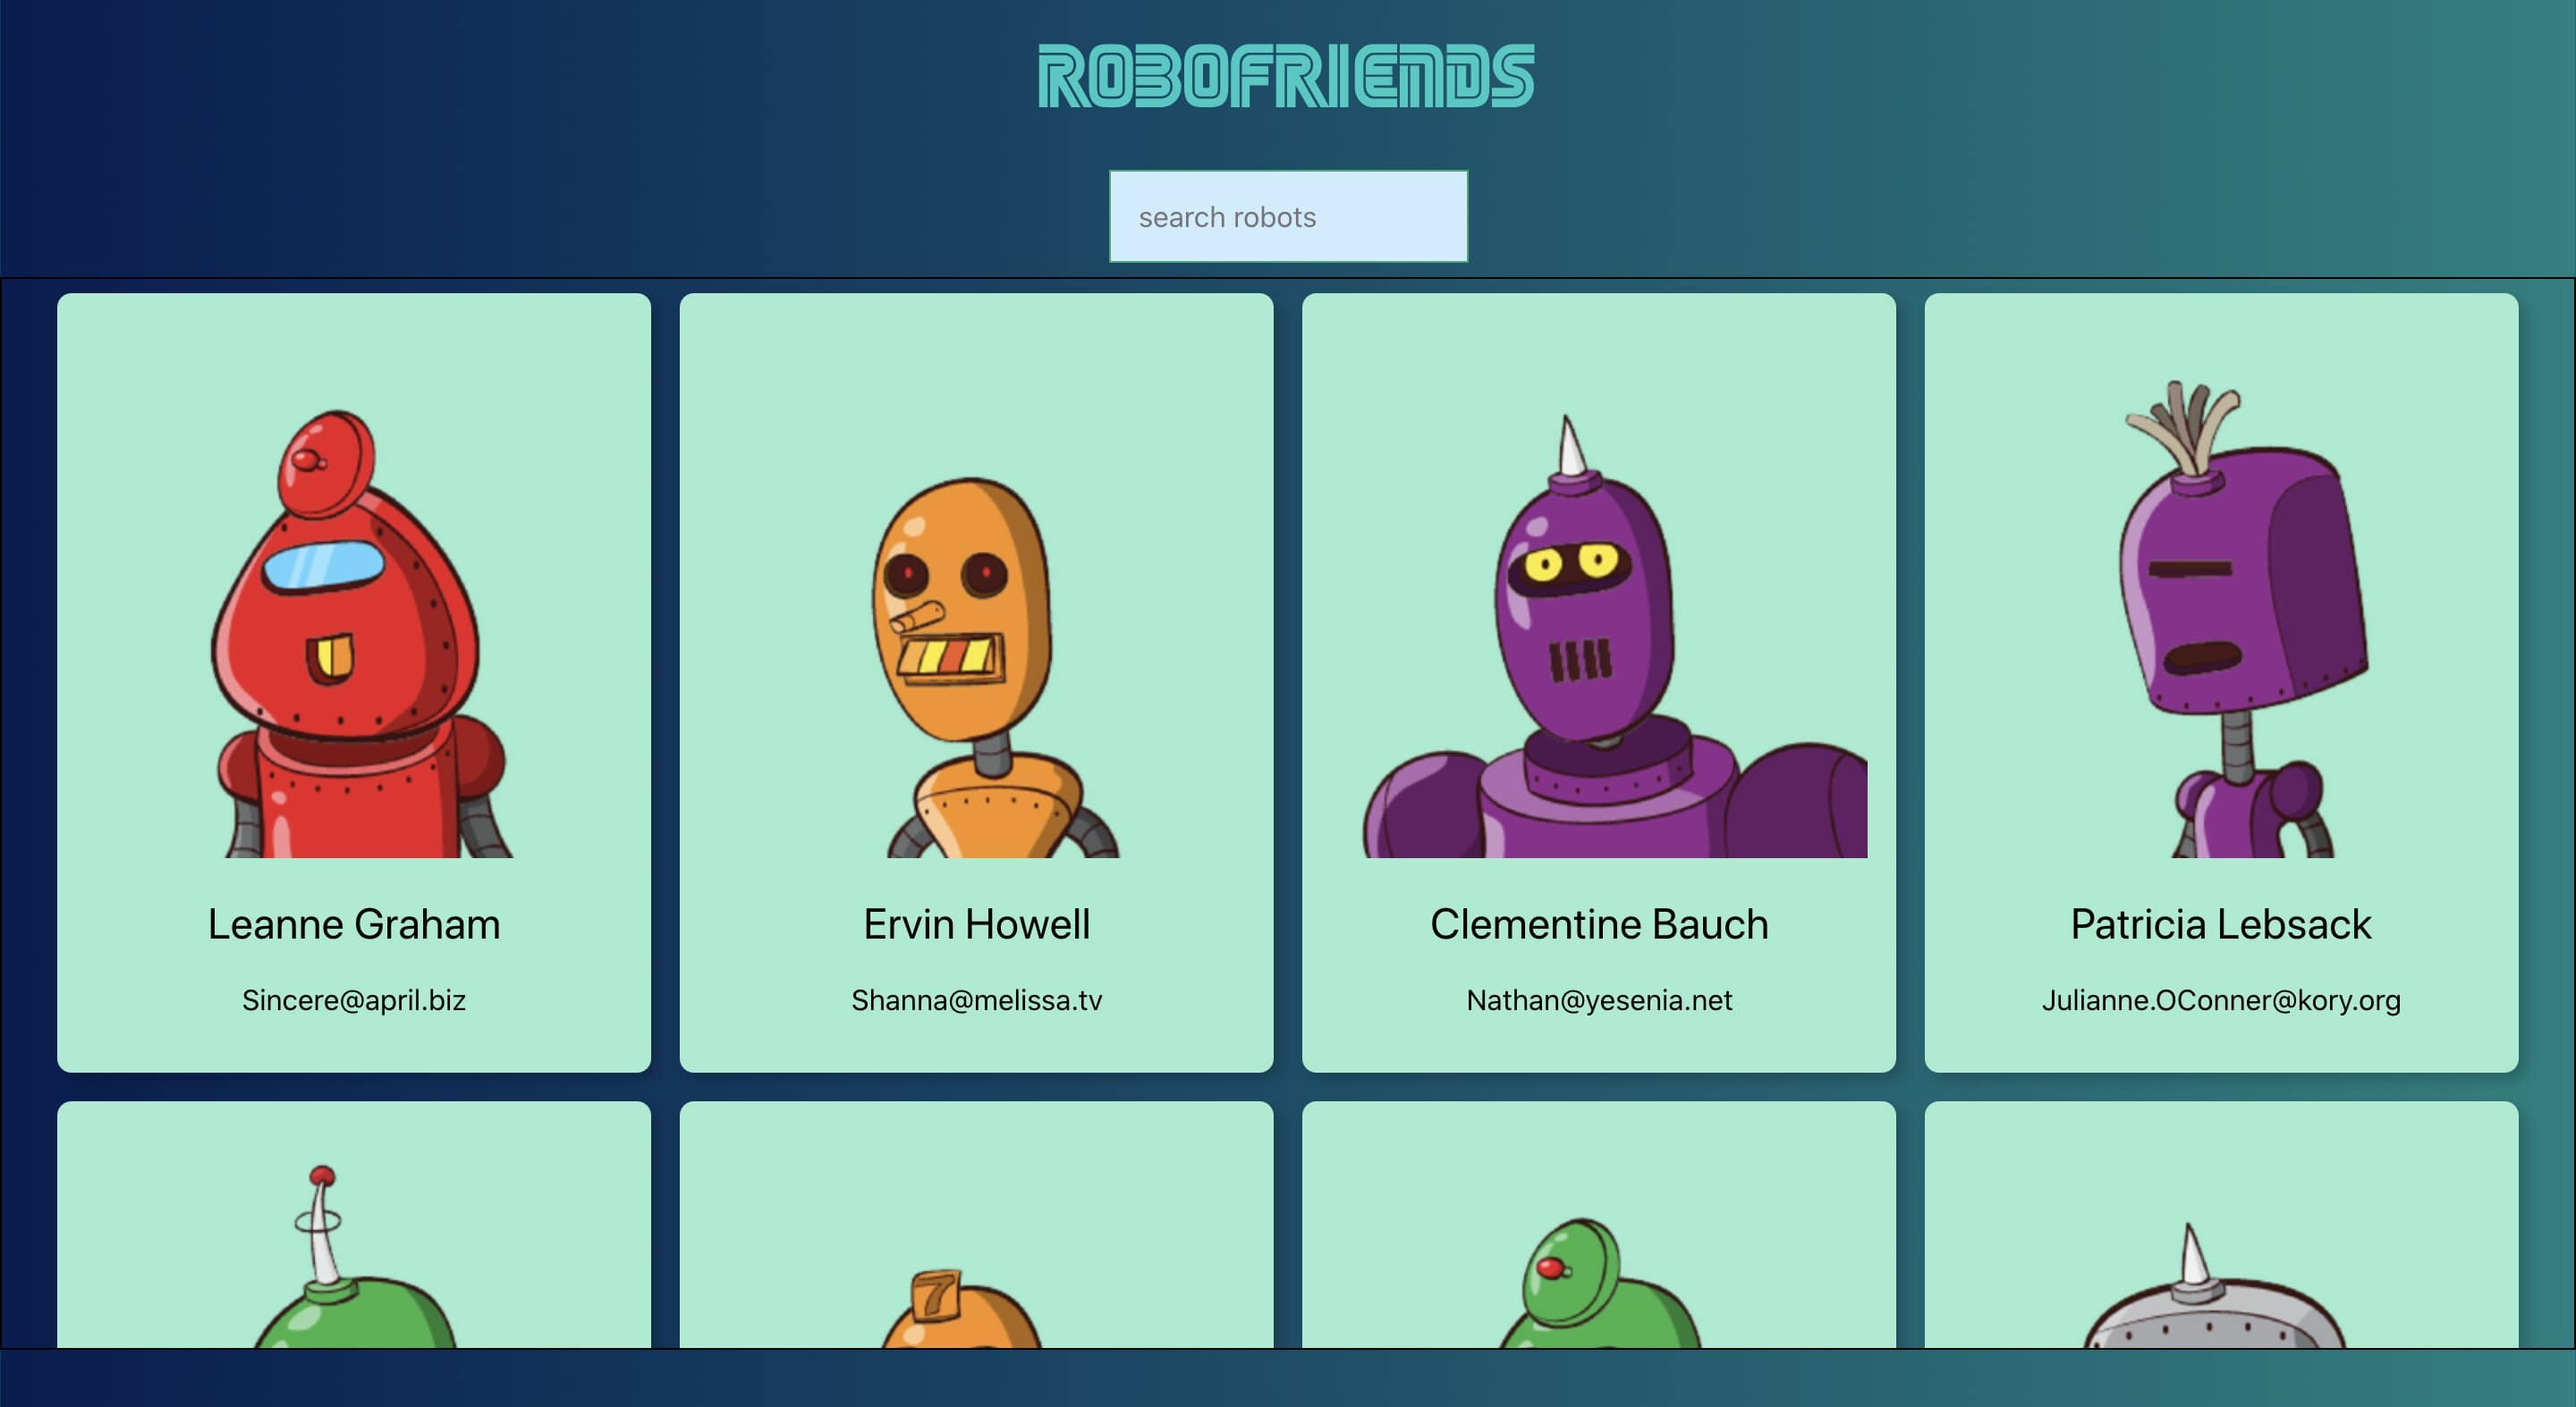
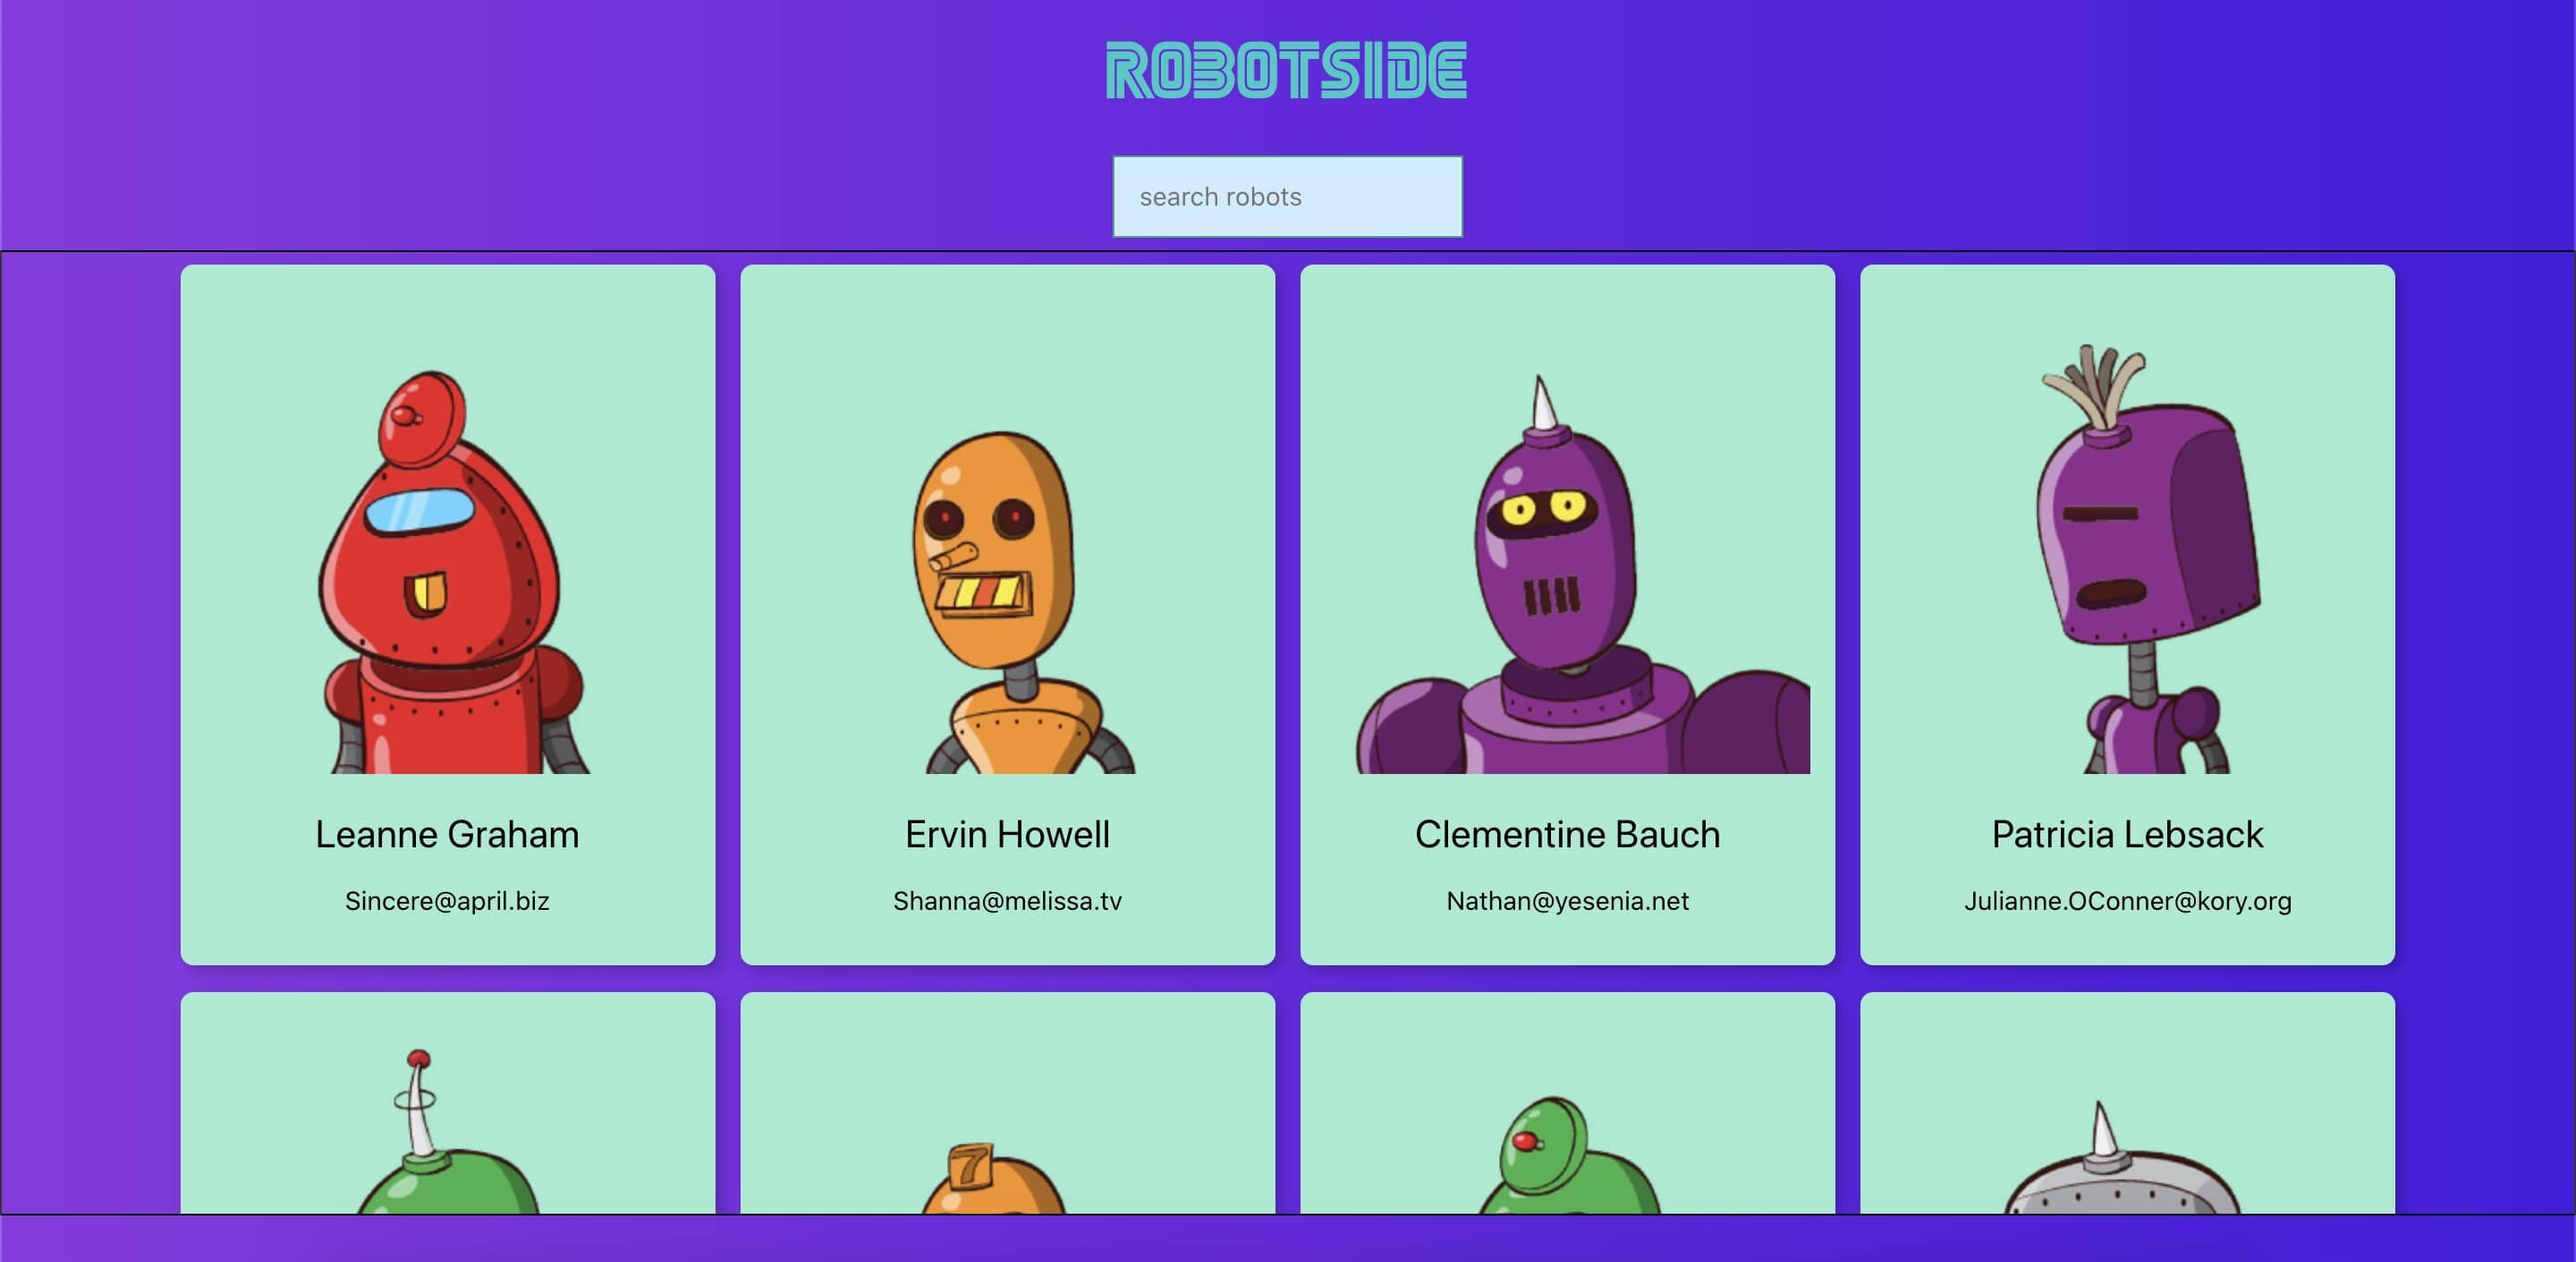
updating v1.1

diff --git a/src/template.html b/src/template.html
@@ -79,9 +79,7 @@
             <div class="about-wrapper__info">
               <p class="about-wrapper__info-text">
                 I am currently developing Full Stack Web Applications.<br></br>
-                For the Front End: I use HTML, CSS, Javascript and React.js  <br></br>
-                For the Back End: I use Node.js (for server-side), Express.js, MySQL and PostgreSQL (for databases). Lastly for deployment I use Heroku and Netlify.
-
+                I have experience in Python, PHP and Javascript (mostly React.JS) for building scalable applications; Node.JS for building server; HTML 5 and CSS for building user interfaces and web-desing and SQL(MySQL and PostgreSQL) for databases. I use Heroku and Netlify to deploy my applications to the web. 
               </p>
               <p class="about-wrapper__info-text">
                  Have a look at some of my projects down below !
@@ -142,6 +140,36 @@
           <div class="row">
             <div class="col-lg-4 col-sm-12">
               <div class="project-wrapper__text">
+                <h3 class="project-wrapper__text-title">PHP Website</h3>
+                <div>
+                  <p class="mb-4">
+                    This is a PHP web project that I made using PHP, HTML, CSS and MySQL Database (phpMyAdmin).   
+                  </p>
+                </div>
+                <a target="_blank" class="cta-btn cta-btn--hero" href="#!">
+                  Check it out!
+                </a>
+                <a target="_blank" class="cta-btn text-color-main" href="#!">
+                  Source Code
+                </a>
+              </div>
+            </div>
+            <div class="col-lg-8 col-sm-12">
+              <div class="project-wrapper__image">
+                <a href="#!" target="_blank">
+                  <div data-tilt class="thumbnail rounded">
+                    <img class="img-fluid" src="./assets/project_4.jpg" />
+                  </div>
+                </a>
+              </div>
+            </div>
+          </div>
+          <!-- /END Project -->
+
+          <!-- Each .row is a project -->
+          <div class="row">
+            <div class="col-lg-4 col-sm-12">
+              <div class="project-wrapper__text">
                 <h3 class="project-wrapper__text-title">Alien Invasion</h3>
                 <div>
                   <p class="mb-4">
@@ -158,7 +186,7 @@
             </div>
             <div class="col-lg-8 col-sm-12">
               <div class="project-wrapper__image">
-                <a href="#!" target="_blank">
+                <a href="https://github.com/hasanthecoder/Alien-Invasion" target="_blank">
                   <div data-tilt class="thumbnail rounded">
                     <img class="img-fluid" src="./assets/project_2.jpg" />
                   </div>
@@ -172,23 +200,23 @@
           <div class="row">
             <div class="col-lg-4 col-sm-12">
               <div class="project-wrapper__text">
-                <h3 class="project-wrapper__text-title">RoboFriends</h3>
+                <h3 class="project-wrapper__text-title">Robot-Side</h3>
                 <div>
                   <p class="mb-4">
                     This is a project that I made it for fun. I used HTML, CSS, Javascript, React.js and Node.js to develop this project.
                   </p>
                 </div>
-                <a target="_blank" class="cta-btn cta-btn--hero" href="https://github.com/hasanthecoder/RoboFriends">
+                <a target="_blank" class="cta-btn cta-btn--hero" href="https://github.com/hasanthecoder/Robot-Side">
                   Check it out!
                 </a>
-                <a target="_blank" class="cta-btn text-color-main" href="https://github.com/hasanthecoder/RoboFriends">
+                <a target="_blank" class="cta-btn text-color-main" href="https://github.com/hasanthecoder/Robot-Side">
                   Source Code
                 </a>
               </div>
             </div>
             <div class="col-lg-8 col-sm-12">
               <div class="project-wrapper__image">
-                <a href="#!" target="_blank">
+                <a href="https://github.com/hasanthecoder/Robot-Side" target="_blank">
                   <div data-tilt class="thumbnail rounded">
                     <img class="img-fluid" src="./assets/project_3.jpg" />
                   </div>
@@ -218,9 +246,9 @@
             </div>
             <div class="col-lg-8 col-sm-12">
               <div class="project-wrapper__image">
-                <a href="#!" target="_blank">
+                <a href="https://github.com/hasanthecoder/background-generator" target="_blank">
                   <div data-tilt class="thumbnail rounded">
-                    <img class="img-fluid" src="./assets/project_4.jpg" />
+                    <img class="img-fluid" src="./assets/project_5.jpg" />
                   </div>
                 </a>
               </div>
@@ -254,6 +282,36 @@
     <!-- /END Design Header Section -->
 
         <!-- **** Design Section **** -->
+
+        <section id="projects">
+          <div class="container">
+            <div class="project-wrapper">
+              <h2 class="section-title dark-blue-text">
+                Badge Designs
+              </h2>
+
+      <!-- Each .row is a project -->
+        <div class="row">
+          <div class="col-lg-4 col-sm-12">
+            <div class="project-wrapper__text">
+              <h3 class="project-wrapper__text-title">Sample Badges</h3>
+              <a target="_blank" class="cta-btn cta-btn--hero" href="https://drive.google.com/file/d/1jg4s4qbu0Wa74F3e54--YA5YJHk7DzqV/view?usp=sharing">
+                Check it out!
+              </a>
+            </div>
+          </div>
+          <div class="col-lg-8 col-sm-12">
+            <div class="project-wrapper__image">
+              <a href="https://drive.google.com/file/d/1jg4s4qbu0Wa74F3e54--YA5YJHk7DzqV/view?usp=sharing" target="_blank">
+                <div data-tilt class="thumbnail rounded">
+                  <img class="img-fluid" src="./assets/badge-design-combo.png"/>
+                </div>
+              </a>
+            </div>
+          </div>
+        </div>
+        <!-- /END Project -->
+
         <section id="projects">
           <div class="container">
             <div class="project-wrapper">
@@ -503,35 +561,6 @@
                     <a href="https://drive.google.com/file/d/1zUKNyofslxqsmWrPmItcOpjFx8g985Zv/view?usp=sharing" target="_blank">
                       <div data-tilt class="thumbnail rounded">
                         <img class="img-fluid" src="./assets/tshirt-design-club.jpg" />
-                      </div>
-                    </a>
-                  </div>
-                </div>
-              </div>
-              <!-- /END Project -->
-
-              <section id="projects">
-                <div class="container">
-                  <div class="project-wrapper">
-                    <h2 class="section-title dark-blue-text">
-                      Badge Designs
-                    </h2>
-
-            <!-- Each .row is a project -->
-              <div class="row">
-                <div class="col-lg-4 col-sm-12">
-                  <div class="project-wrapper__text">
-                    <h3 class="project-wrapper__text-title">Sample Badges</h3>
-                    <a target="_blank" class="cta-btn cta-btn--hero" href="https://drive.google.com/file/d/1jg4s4qbu0Wa74F3e54--YA5YJHk7DzqV/view?usp=sharing">
-                      Check it out!
-                    </a>
-                  </div>
-                </div>
-                <div class="col-lg-8 col-sm-12">
-                  <div class="project-wrapper__image">
-                    <a href="https://drive.google.com/file/d/1jg4s4qbu0Wa74F3e54--YA5YJHk7DzqV/view?usp=sharing" target="_blank">
-                      <div data-tilt class="thumbnail rounded">
-                        <img class="img-fluid" src="./assets/badge-design-combo.png"/>
                       </div>
                     </a>
                   </div>
